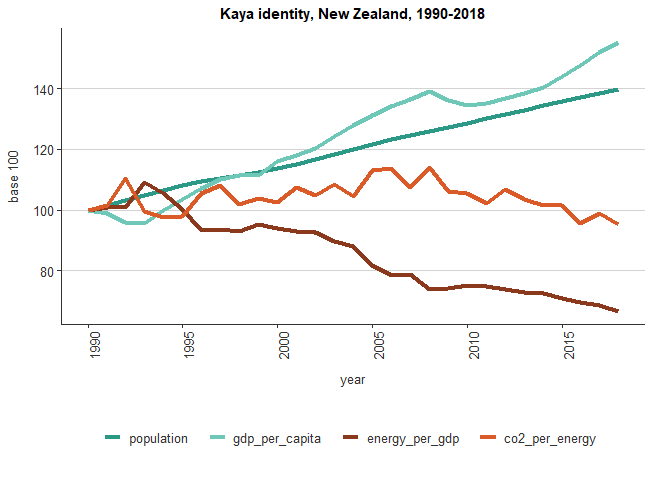
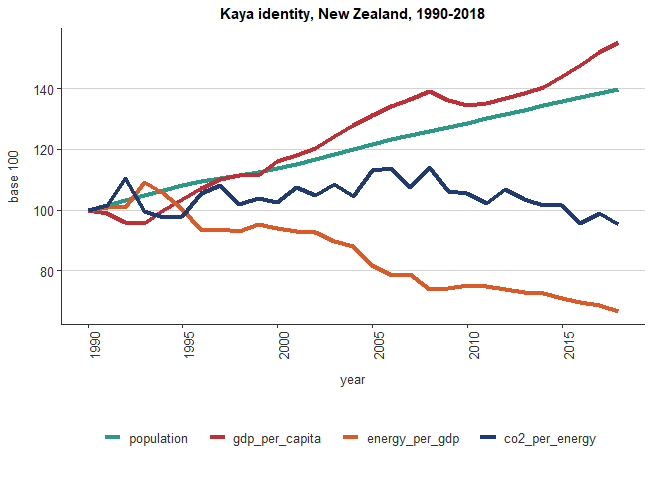
more changes to readme

diff --git a/README.md b/README.md
@@ -1,5 +1,5 @@
 
-# mfePubs <img src="man/figures/mfepubslogo.png" align="right" width="120" />
+# mfePubs <img src ="man/figures/mfepubslogo.png" align ="right" width ="120" />
 
 `mfePubs` is a package for homogenising the graphical outputs of code
 based analysis at MfE.
@@ -156,26 +156,23 @@ can be accessed by their names:
 
 ``` r
 mfe_colours
-#> $dark_blue
-#> [1] "#1C556C"
-#> 
-#> $blue
+#> $light_blue
 #> [1] "#32809C"
 #> 
-#> $dark_green
-#> [1] "#0F7B7D"
+#> $blue
+#> [1] "#1B556B"
 #> 
 #> $light_green
 #> [1] "#2C9986"
 #> 
-#> $turquoise
-#> [1] "#6FC7B7"
-#> 
-#> $brown
-#> [1] "#8B391D"
+#> $red
+#> [1] "#BF2F37"
 #> 
 #> $orange
 #> [1] "#DA5A28"
+#> 
+#> $metallic_blue
+#> [1] "#1F3B71"
 
 image(volcano, col = unname(unlist(mfe_colours)))
 ```
@@ -192,10 +189,10 @@ kaya_barplot_custom <- ggplot(data_long, aes(x = year, y = as.numeric(value), fi
   xlab('year') +
   scale_x_continuous(n.breaks=length(unique(data_long$year))/5) +
   theme_mfe() +
-  scale_fill_manual(values = c(mfe_colours$dark_blue, 
-                               mfe_colours$turquoise, 
-                               mfe_colours$brown, 
-                               mfe_colours$light_green))
+  scale_fill_manual(values = c(mfe_colours$light_blue, 
+                               mfe_colours$light_green, 
+                               mfe_colours$orange, 
+                               mfe_colours$metallic_blue))
 
 kaya_barplot_custom
 ```
